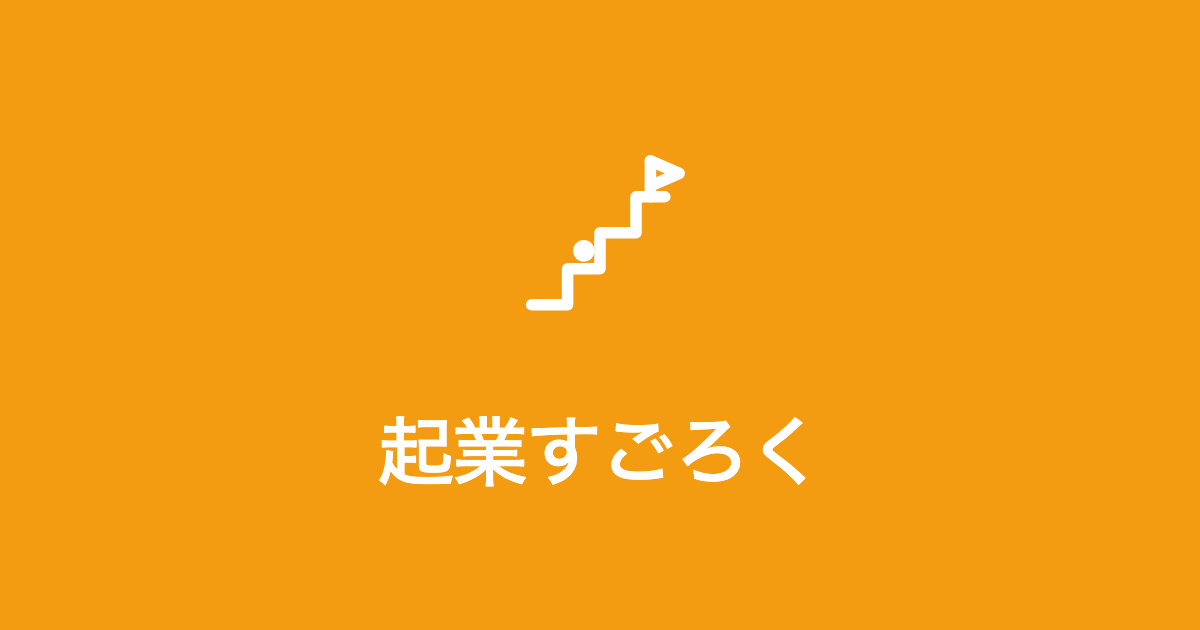
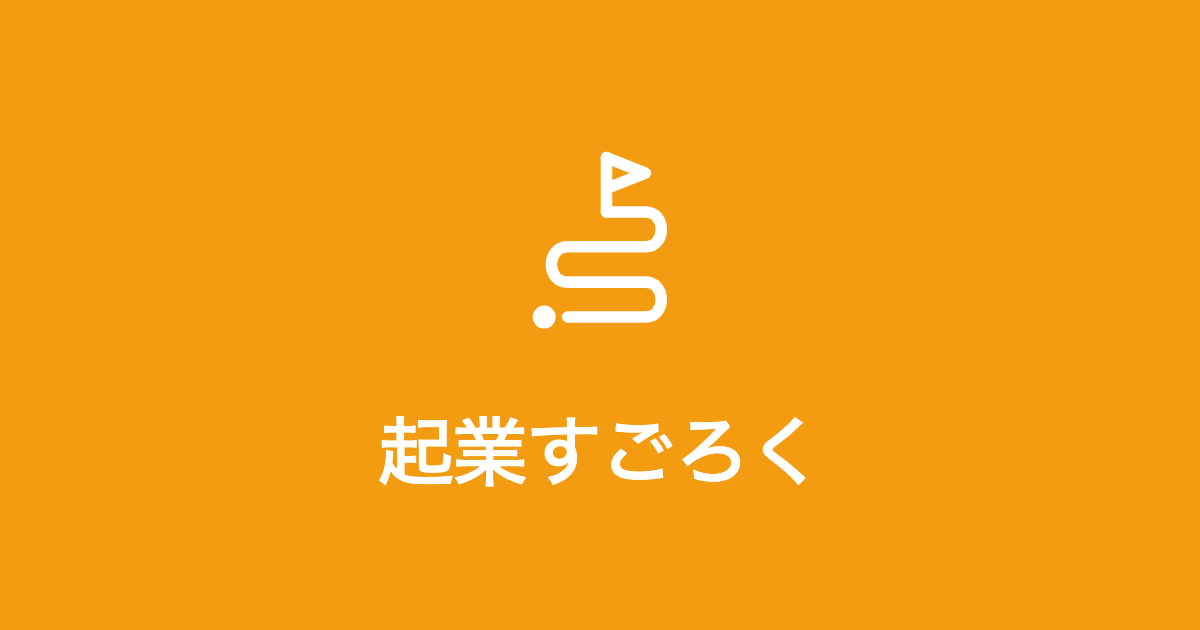
design: アイコンを「曲がりくねる道とゴール旗」にリデザイン

Changed region(s): [[0.4317, 0.2413, 0.5858, 0.5429]]

diff --git a/index.html b/index.html
@@ -27,7 +27,7 @@
   <!-- ログイン画面 -->
   <div id="login-screen" class="login-screen">
     <div class="login-card">
-      <span class="login-card__logo"><svg width="64" height="64" viewBox="0 0 64 64" fill="none" stroke="currentColor" stroke-width="3.2" stroke-linecap="round" stroke-linejoin="round" aria-hidden="true"><path d="M13 50 H23 V40 H32 V30 H42 V20 H50"/><path d="M46 20 V10"/><path d="M46 10 L54 13.5 L46 17"/><circle cx="27.5" cy="35" r="3" fill="currentColor" stroke="none"/></svg></span>
+      <span class="login-card__logo"><svg width="64" height="64" viewBox="0 0 64 64" fill="none" stroke="currentColor" stroke-width="3.2" stroke-linecap="round" stroke-linejoin="round" aria-hidden="true"><circle cx="16.5" cy="53.4" r="3.2" fill="currentColor" stroke="none"/><path d="M23 53.4 H44.6 C50.5 53.4 50.5 43.7 44.6 43.7 H23 C17 43.7 17 33.9 23 33.9 H44.6 C50.5 33.9 50.5 24.2 44.6 24.2 H33.8"/><path d="M33.8 24.2 V9.1"/><path d="M33.8 9.1 L44.6 13.4 L33.8 17.7"/></svg></span>
       <h1 class="login-card__title">起業すごろく</h1>
       <p class="login-card__tagline">受注しながら、1マスずつ起業へ。<br>いまやるべき「次の一手」がわかります。</p>
       <button id="btn-google-login" class="google-btn">
@@ -44,7 +44,7 @@
 
   <div id="app" class="hidden">
     <header class="app-header">
-      <span class="app-header__brand"><svg width="28" height="28" viewBox="0 0 64 64" fill="none" stroke="currentColor" stroke-width="3.2" stroke-linecap="round" stroke-linejoin="round" aria-hidden="true" style="vertical-align:-7px"><path d="M13 50 H23 V40 H32 V30 H42 V20 H50"/><path d="M46 20 V10"/><path d="M46 10 L54 13.5 L46 17"/><circle cx="27.5" cy="35" r="3" fill="currentColor" stroke="none"/></svg> 起業すごろく</span>
+      <span class="app-header__brand"><svg width="28" height="28" viewBox="0 0 64 64" fill="none" stroke="currentColor" stroke-width="3.2" stroke-linecap="round" stroke-linejoin="round" aria-hidden="true" style="vertical-align:-7px"><circle cx="16.5" cy="53.4" r="3.2" fill="currentColor" stroke="none"/><path d="M23 53.4 H44.6 C50.5 53.4 50.5 43.7 44.6 43.7 H23 C17 43.7 17 33.9 23 33.9 H44.6 C50.5 33.9 50.5 24.2 44.6 24.2 H33.8"/><path d="M33.8 24.2 V9.1"/><path d="M33.8 9.1 L44.6 13.4 L33.8 17.7"/></svg> 起業すごろく</span>
       <nav class="app-header__nav">
         <a href="about.html" class="app-header__about-link">アプリについて</a>
         <div id="user-info" class="app-header__user hidden">
@@ -284,7 +284,7 @@
   <!-- マスが進んだお祝い -->
   <div id="celebrate-overlay" class="dialog-overlay">
     <div class="dialog dialog--celebrate">
-      <span class="dialog__icon"><svg width="56" height="56" viewBox="0 0 64 64" fill="none" stroke="currentColor" stroke-width="3.2" stroke-linecap="round" stroke-linejoin="round" aria-hidden="true"><path d="M13 50 H23 V40 H32 V30 H42 V20 H50"/><path d="M46 20 V10"/><path d="M46 10 L54 13.5 L46 17"/><circle cx="27.5" cy="35" r="3" fill="currentColor" stroke="none"/></svg></span>
+      <span class="dialog__icon"><svg width="56" height="56" viewBox="0 0 64 64" fill="none" stroke="currentColor" stroke-width="3.2" stroke-linecap="round" stroke-linejoin="round" aria-hidden="true"><circle cx="16.5" cy="53.4" r="3.2" fill="currentColor" stroke="none"/><path d="M23 53.4 H44.6 C50.5 53.4 50.5 43.7 44.6 43.7 H23 C17 43.7 17 33.9 23 33.9 H44.6 C50.5 33.9 50.5 24.2 44.6 24.2 H33.8"/><path d="M33.8 24.2 V9.1"/><path d="M33.8 9.1 L44.6 13.4 L33.8 17.7"/></svg></span>
       <div class="dialog__title">マスが進みました！</div>
       <ul class="dialog__list" id="celebrate-list"></ul>
       <div class="dialog__actions dialog__actions--center">

diff --git a/about.html b/about.html
@@ -228,7 +228,7 @@
 
   <section class="hero">
     <span class="category-pill">仕事</span>
-    <div class="badge"><svg width="72" height="72" viewBox="0 0 64 64" fill="none" stroke="currentColor" stroke-width="3.2" stroke-linecap="round" stroke-linejoin="round"><path d="M13 50 H23 V40 H32 V30 H42 V20 H50"/><path d="M46 20 V10"/><path d="M46 10 L54 13.5 L46 17"/><circle cx="27.5" cy="35" r="3" fill="currentColor" stroke="none"/></svg></div>
+    <div class="badge"><svg width="72" height="72" viewBox="0 0 64 64" fill="none" stroke="currentColor" stroke-width="3.2" stroke-linecap="round" stroke-linejoin="round"><circle cx="16.5" cy="53.4" r="3.2" fill="currentColor" stroke="none"/><path d="M23 53.4 H44.6 C50.5 53.4 50.5 43.7 44.6 43.7 H23 C17 43.7 17 33.9 23 33.9 H44.6 C50.5 33.9 50.5 24.2 44.6 24.2 H33.8"/><path d="M33.8 24.2 V9.1"/><path d="M33.8 9.1 L44.6 13.4 L33.8 17.7"/></svg></div>
     <h1>起業すごろく</h1>
     <p class="tagline">受注しながら、1マスずつ起業へ。「何からやればいいか」がいつでもわかる、すごろく形式のロードマップと受注ログのアプリです。</p>
     <a class="cta" href="https://kigyo-sugoroku.vercel.app">アプリを使ってみる →</a>
@@ -243,7 +243,7 @@
         <p class="feature-desc">まだ終わっていないことの中から、いちばん先にやるべき1つを大きく表示。「なぜやるか」「どうやるか」もセットなので、迷わず動けます。</p>
       </div>
       <div class="feature-card">
-        <div class="feature-icon"><svg width="30" height="30" viewBox="0 0 64 64" fill="none" stroke="currentColor" stroke-width="3.2" stroke-linecap="round" stroke-linejoin="round"><path d="M13 50 H23 V40 H32 V30 H42 V20 H50"/><path d="M46 20 V10"/><path d="M46 10 L54 13.5 L46 17"/><circle cx="27.5" cy="35" r="3" fill="currentColor" stroke="none"/></svg></div>
+        <div class="feature-icon"><svg width="30" height="30" viewBox="0 0 64 64" fill="none" stroke="currentColor" stroke-width="3.2" stroke-linecap="round" stroke-linejoin="round"><circle cx="16.5" cy="53.4" r="3.2" fill="currentColor" stroke="none"/><path d="M23 53.4 H44.6 C50.5 53.4 50.5 43.7 44.6 43.7 H23 C17 43.7 17 33.9 23 33.9 H44.6 C50.5 33.9 50.5 24.2 44.6 24.2 H33.8"/><path d="M33.8 24.2 V9.1"/><path d="M33.8 9.1 L44.6 13.4 L33.8 17.7"/></svg></div>
         <h3 class="feature-title">5段階のすごろく</h3>
         <p class="feature-desc">準備 → 初受注 → 継続受注 → 独立・開業 → 仕組み化。35のマスを、できたものから1マスずつ進めます。いまどこにいるかが一目でわかります。</p>
       </div>
